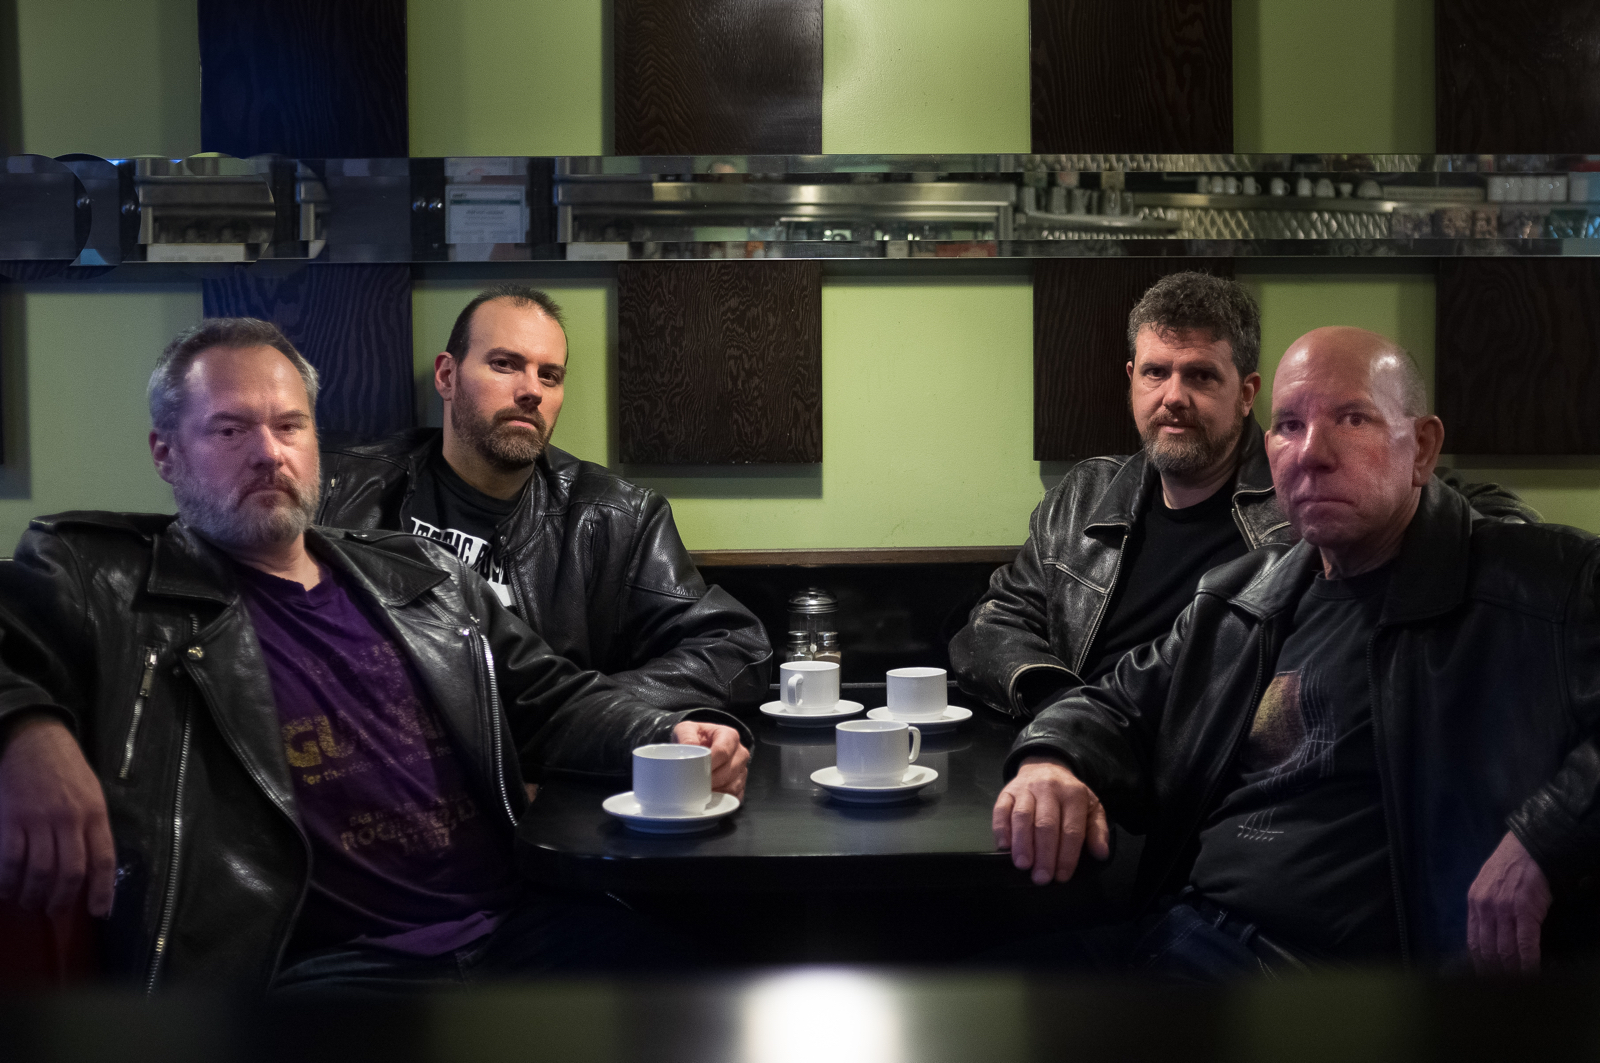
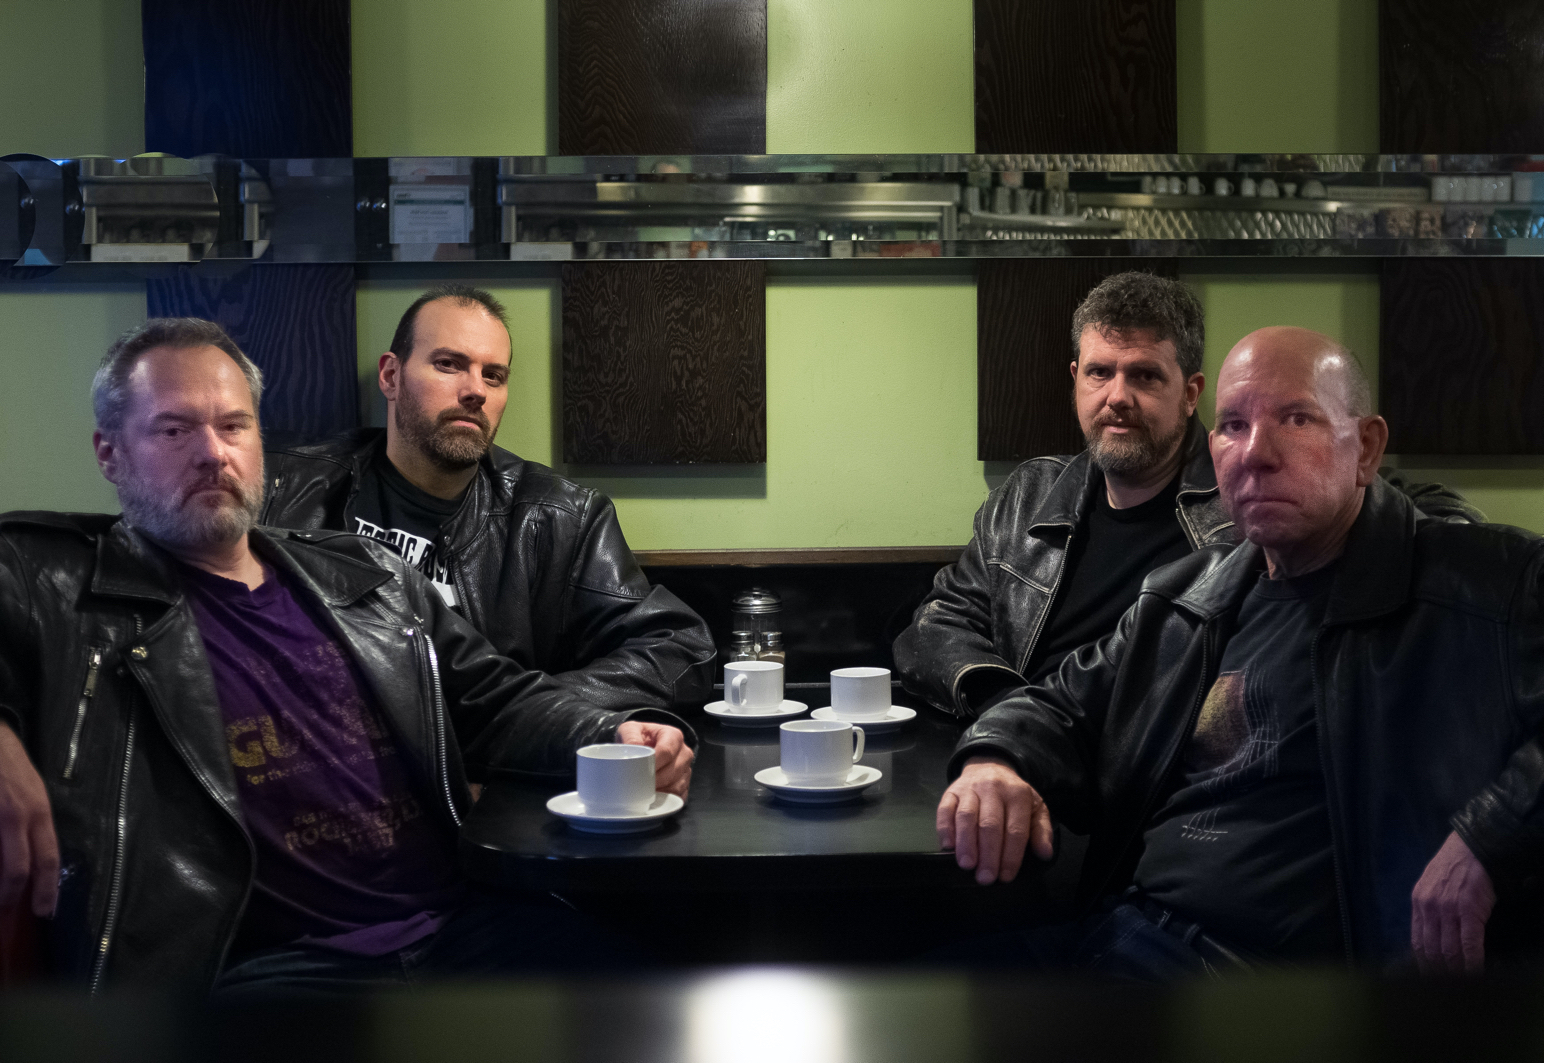
Built out about and music pages

diff --git a/blueweb/templates/about.html b/blueweb/templates/about.html
@@ -1,11 +1,14 @@
 {% extends "secondary.html" %}
 
+{% load static %}
+
 {% block page-title %}About Blue Shift{% endblock page-title %}
 
 {% block content %}
 <div class="row">
     <div class="col">
         <h2>Bio</h2>
+        <p><img src="{% static 'images/band1.jpg' %}" class="img-fluid"></p>
         <p>Occupying a vector between Radiohead and Black Sabbath, <strong><em>Blue Shift</em></strong> was a band that was here, then gone, and now here again.</p>
 
         <p><strong><em>Blue Shift</em></strong> originally coalesced into being around 1992, forming out of a series of unauthorized jams at University of Toronto’s Innis College.  The original founding members were <strong>Loren Davie</strong> (lead vocals, keys), <strong>Mike Klinowski</strong> (bass), <strong>Braz King</strong> (guitar), and <strong>Dylan de la Riviere</strong> (drums).</p>
@@ -21,21 +24,37 @@
 <div class="row mt-3">
     <div class="col">
         <h2>Who's Who</h2>
+        <img src="{% static 'images/loren.jpg' %}" class="img-fluid float-left mr-3">
         <h3>Loren Davie</h3>
         <p class="text-muted">Lead vocals, guitars, synth-like things...</p>
         <p>Loren vaguely remembers making up songs as a small child, basically about the same time as he learned to walk and talk. He comes from a musical family, where everyone's passion for music is only matched by their distaste for each others' genre choices. Loren grew up playing music throughout school, always singing and at various times playing piano, trombone and guitar. He graduated Harris Institute's Producing / Engineering Program.</p>
         <p>Loren has been in several indie bands in Toronto and New York, including Bridges Burning, the Archetones and the Crawlin' Crawdads. He had a short lived career as a mastering engineer before the Internet stole him. Besides albums with his bands, he as also released two solo albums (<em>Son of the Sun</em> and <em>Seize</em>), and a very long one-song collaboration with Michael Milanetti (<em>Prometheus</em>).</p>
         <p>Loren has seen some shit.</p>
+    </div>
+</div>
+<div class="row mt-3">
+    <div class="col">
+        <img src="{% static 'images/klinowski.jpg' %}" class="img-fluid float-left mr-3">
         <h3>Mike Klinowski</h3>
         <p class="text-muted">Bass, vocals</p>
         <p>"Dee Dee Ramone" would have been the answer Klinowski gave when questioned about influences, for many years. But of course it's more complicated than that. Mike lives at a strange intersection of 70s punk rock, 80s cheese metal, and Kate Bush.  Doesn't make sense? Too bad. This is Mike Fucking Klinowski we're talking about, and he doesn't give a shit whether it makes sense to you or not.</p>
         <p>Also a Harris Institute Producing / Engineering grad, Mike was a founding member of the Dead Lemmings (spawning ground for future Do Make Say Think / Broken Social Scene members) and Like Heroes, a band he had with Michael Milanetti. Mike is also a talented producer, guitar tech, creator of weird franken-amps and other creative endeavours.  In his spare time he smokes cheese.  (Insert joke about trying to roll a cheese joint here.)</p>
         <p>Mike Klinowski has several ideas on how you could improve.</p>
+    </div>
+</div>
+<div class="row mt-3">
+    <div class="col">
+        <img src="{% static 'images/milanetti.jpg' %}" class="img-fluid float-left mr-3">
         <h3>Michael Milanetti</h3>
         <p class="text-muted">Guitars, vocals</p>
         <p>Someone has to hold up the Black Sabbath end of our musical spectrum, and Milanetti is the man for it. Don't let the "dad-vibe" fool you. Richard Linklator's <em>Dazed and Confused</em> movie was basically written about Milanetti's mis-spent youth. On the other hand, there was a time when Milanetti was the only member of the band that could keep us on any sort of schedule.</p>
         <p>Milanetti cites guys like Mick Ronson and Joe Bonamassa as influences, while dialing in a bit of Rage Against the Machine for balance. It's not so much that he's more "normal" than the other members of the band, it's just that the weirdness is more subtle with him. He also grows hot peppers and drives too fast.</p>
         <p>Michael Milanetti is doing just dandy.</p>
+    </div>
+</div>
+<div class="row mt-3 mb-3">
+    <div class="col">
+        <img src="{% static 'images/marco.jpg' %}" class="img-fluid float-left mr-3">
         <h3>Marco Ruggiero</h3>
         <p class="text-muted">Drums</p>
         <p>At age 14, Marco inherited his father's <strike>lightsaber</strike> drums. A third generation musician, and drumming since he was 11, Marco started playing with original groups, eventually becoming the drummer for The Beggers (the house band at the Hideout) from 2007 to 2014. (He was never in a band called the Choosers for obvious reasons.)</p>

diff --git a/blueweb/templates/music.html b/blueweb/templates/music.html
@@ -1,43 +1,55 @@
 {% extends "secondary.html" %}
 
+{% load static %}
+
 {% block page-title %}Music{% endblock page-title %}
 
 {% block content %}
-{% for release in releases %}
 <div class="row">
     <div class="col">
-        <h2>{{ release.title }}</h2>
-        <p class="text-muted"><em>{{ release.release_date }}</em></p>
-        {% if release.notes %}
-        <p>{{ release.notes }}</p>
-        {% endif %}
-        {% if release.songs.exists %}
-        <table class="table">
-            {% for song in release.songs.all %}
-                <tr>
-                    <td><strong>{{ song }}</strong></td>
-                    <td>
-                        <a href="#" class="btn btn-sm btn-outline-primary show-lyric-btn" data-song-id="{{ song.pk }}">Lyrics</a>
-                        {% if song.hosting %}
-                        <a href="{{ song.link }}" target="_blank" class="btn btn-sm btn-outline-info">Listen</a>
-                        {% endif %}
-                    </td>
-                </tr>
-                <tr class="d-none lyric-row" id="{{ song.pk }}-lyric-row">
-                    <td colspan="2">
-                        <div class="alert alert-light">
-                            <pre>{{ song.lyrics}}</pre>
-                        </div>
-                    </td>
-                </tr>
+        {# <p>Lorem ipsum dolor sit amet, consectetur adipisicing elit, sed do eiusmod tempor incididunt ut labore et dolore magna aliqua. Ut enim ad minim veniam, quis nostrud exercitation ullamco laboris nisi ut aliquip ex ea commodo consequat. Duis aute irure dolor in reprehenderit in voluptate velit esse cillum dolore eu fugiat nulla pariatur. Excepteur sint occaecat cupidatat non proident, sunt in culpa qui officia deserunt mollit anim id est laborum.</p> #}
+        <div class="container">
+            {% for release in releases %}
+            <div class="row mt-3">
+                <div class="col">
+                    <h2>{{ release.title }}</h2>
+                    <p class="text-muted"><em>{{ release.release_date }}</em></p>
+                    {% if release.notes %}
+                    <p>{{ release.notes }}</p>
+                    {% endif %}
+                    {% if release.songs.exists %}
+                    <table class="table">
+                        {% for song in release.songs.all %}
+                            <tr>
+                                <td><strong>{{ song }}</strong></td>
+                                <td>
+                                    <a href="#" class="btn btn-sm btn-outline-primary show-lyric-btn" data-song-id="{{ song.pk }}">Lyrics</a>
+                                    {% if song.hosting %}
+                                    <a href="{{ song.link }}" target="_blank" class="btn btn-sm btn-outline-info">Listen</a>
+                                    {% endif %}
+                                </td>
+                            </tr>
+                            <tr class="d-none lyric-row" id="{{ song.pk }}-lyric-row">
+                                <td colspan="2">
+                                    <div class="alert alert-light">
+                                        <pre>{{ song.lyrics}}</pre>
+                                    </div>
+                                </td>
+                            </tr>
+                        {% endfor %}
+                    </table>
+                    {% else %}
+                    <p class="text-muted">No songs have been defined for this release yet.</p>
+                    {% endif %}
+                </div>
+            </div>
             {% endfor %}
-        </table>
-        {% else %}
-        <p class="text-muted">No songs have been defined for this release yet.</p>
-        {% endif %}
+        </div>
+    </div>
+    <div class="col">
+        <img src="{% static 'images/band2.jpg' %}" class="img-fluid float-right">
     </div>
 </div>
-{% endfor %}
 {% endblock content %}
 
 {% block bodyscripts %}
